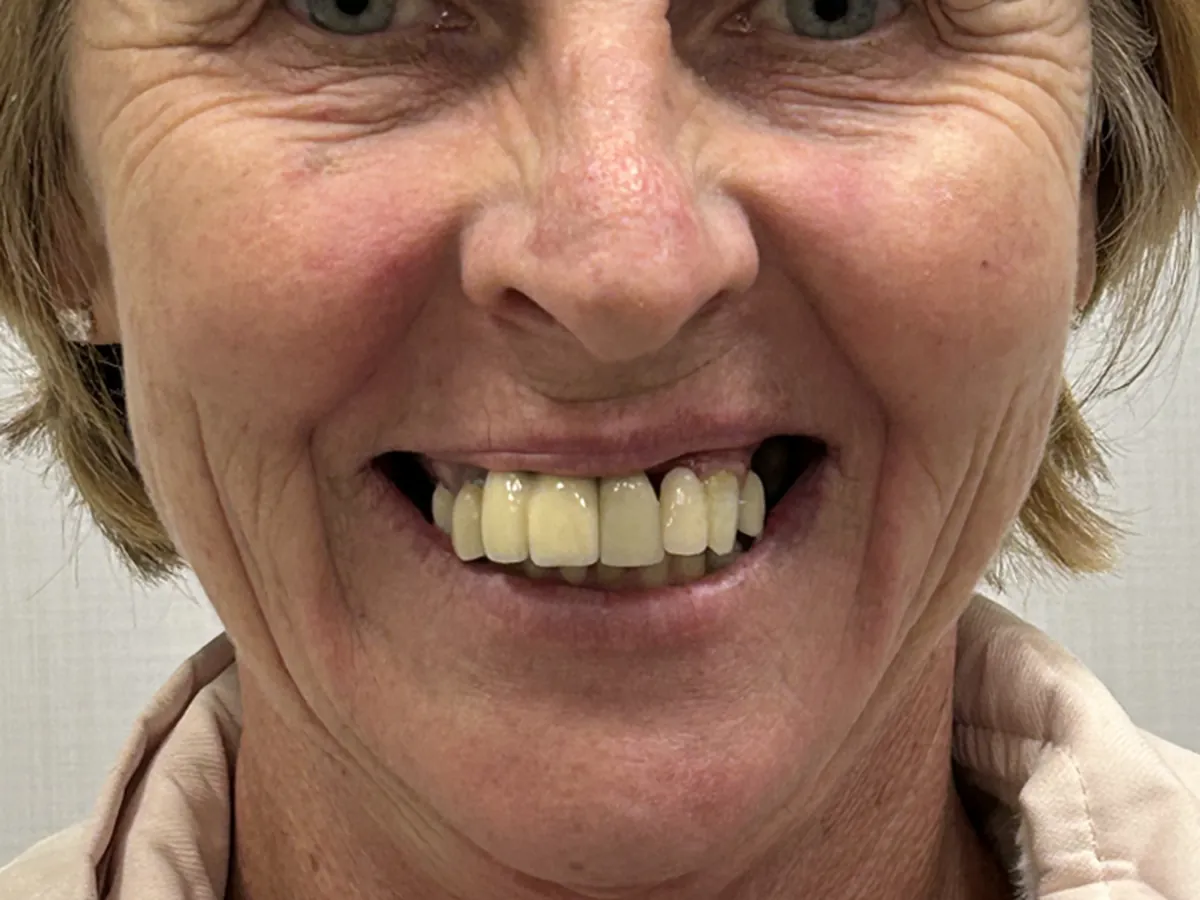
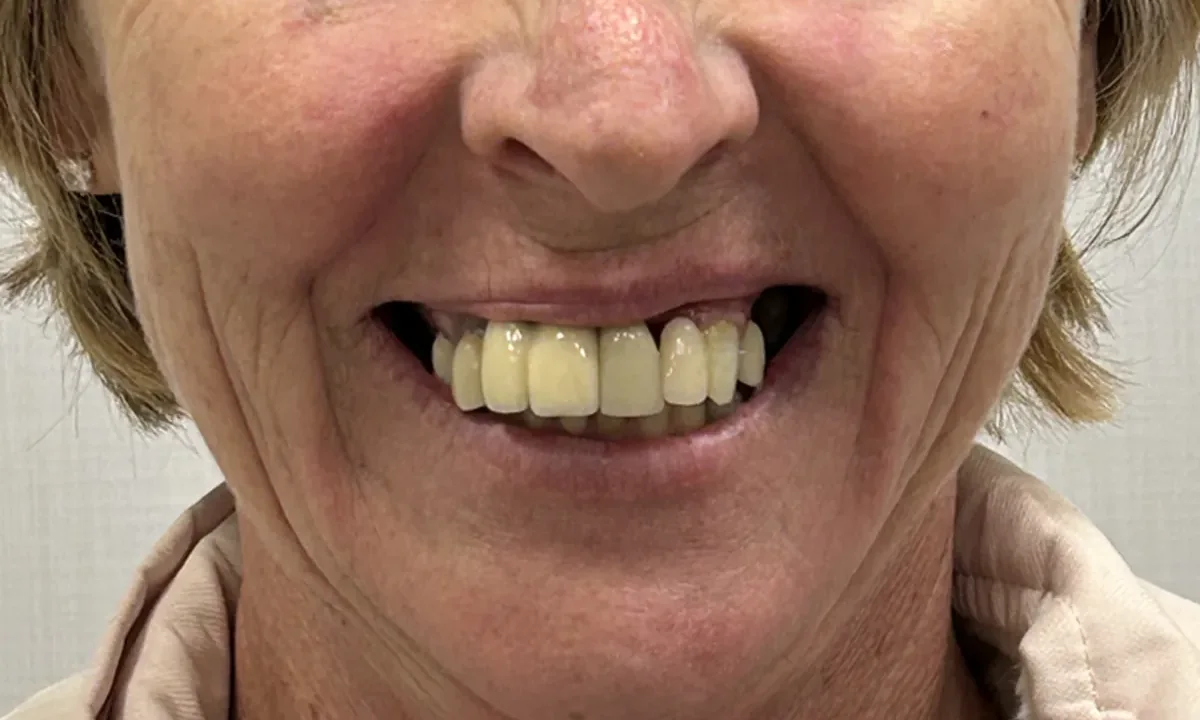
Caso 6: recorta as fotos para não mostrar os olhos da paciente
A pedido da paciente, as fotos de antes e depois do caso-10 foram
cortadas na altura do nariz. Imagens dos casos ganham ?v=2 para os
aparelhos baixarem a versão nova.

diff --git a/assets/js/main.js b/assets/js/main.js
@@ -17,7 +17,7 @@
       text: 'Dentes comprometidos que vinham sendo remendados por anos. A prótese protocolo trouxe estabilidade e devolveu o prazer de comer sem preocupação.' },
     { id: 'caso-07', w: 1200, h: 600, tag: 'Prótese protocolo', title: 'Luz no sorriso, leveza na rotina.',
       text: 'Dentes escurecidos e com perdas foram substituídos por uma arcada fixa sobre implantes. Um sorriso claro, proporcional e seguro para o dia a dia.' },
-    { id: 'caso-10', w: 1200, h: 900, tag: 'Reabilitação do sorriso', title: 'O mesmo sorriso, mais confiante.',
+    { id: 'caso-10', w: 1200, h: 720, tag: 'Reabilitação do sorriso', title: 'O mesmo sorriso, mais confiante.',
       text: 'Com cor, forma e alinhamento planejados para o rosto da paciente, a reabilitação deixou o sorriso mais harmônico sem perder a naturalidade.' },
     { id: 'caso-02', w: 1200, h: 545, tag: 'Facetas e coroas', title: 'Proporção e harmonia.',
       text: 'Espaços, diferenças de tamanho e desgastes corrigidos com facetas e coroas. Detalhe por detalhe, para um resultado equilibrado e natural.' },
@@ -221,12 +221,12 @@
     b.className = 'thumb';
     b.setAttribute('role', 'tab');
     b.setAttribute('aria-label', `Caso ${i + 1}: ${c.tag}`);
-    b.innerHTML = `<img src="assets/img/${c.id}-depois.webp" alt="" loading="lazy"><span>${pad(i + 1)}</span>`;
+    b.innerHTML = `<img src="assets/img/${c.id}-depois.webp?v=2" alt="" loading="lazy"><span>${pad(i + 1)}</span>`;
     b.addEventListener('click', () => showCase(i));
     thumbs.appendChild(b);
   });
   // pré-carrega as imagens dos casos depois que a página termina de carregar
-  addEventListener('load', () => setTimeout(() => CASES.forEach(c => { new Image().src = `assets/img/${c.id}-antes.webp`; new Image().src = `assets/img/${c.id}-depois.webp`; }), 1500));
+  addEventListener('load', () => setTimeout(() => CASES.forEach(c => { new Image().src = `assets/img/${c.id}-antes.webp?v=2`; new Image().src = `assets/img/${c.id}-depois.webp?v=2`; }), 1500));
 
   function showCase(i, first) {
     current = (i + CASES.length) % CASES.length;
@@ -235,8 +235,8 @@
     const apply = () => {
       const a = mainBA.querySelector('.ba-after');
       const b = mainBA.querySelector('.ba-before img');
-      a.src = `assets/img/${c.id}-depois.webp`; a.width = c.w; a.height = c.h;
-      b.src = `assets/img/${c.id}-antes.webp`; b.width = c.w; b.height = c.h;
+      a.src = `assets/img/${c.id}-depois.webp?v=2`; a.width = c.w; a.height = c.h;
+      b.src = `assets/img/${c.id}-antes.webp?v=2`; b.width = c.w; b.height = c.h;
       mainBA.style.aspectRatio = `${c.w} / ${c.h}`;
       $('#vTag').textContent = c.tag;
       $('#vTitle').textContent = c.title;

diff --git a/index.html b/index.html
@@ -697,6 +697,6 @@
   </div>
 </dialog>
 
-<script src="assets/js/main.js?v=6" defer></script>
+<script src="assets/js/main.js?v=7" defer></script>
 </body>
 </html>
